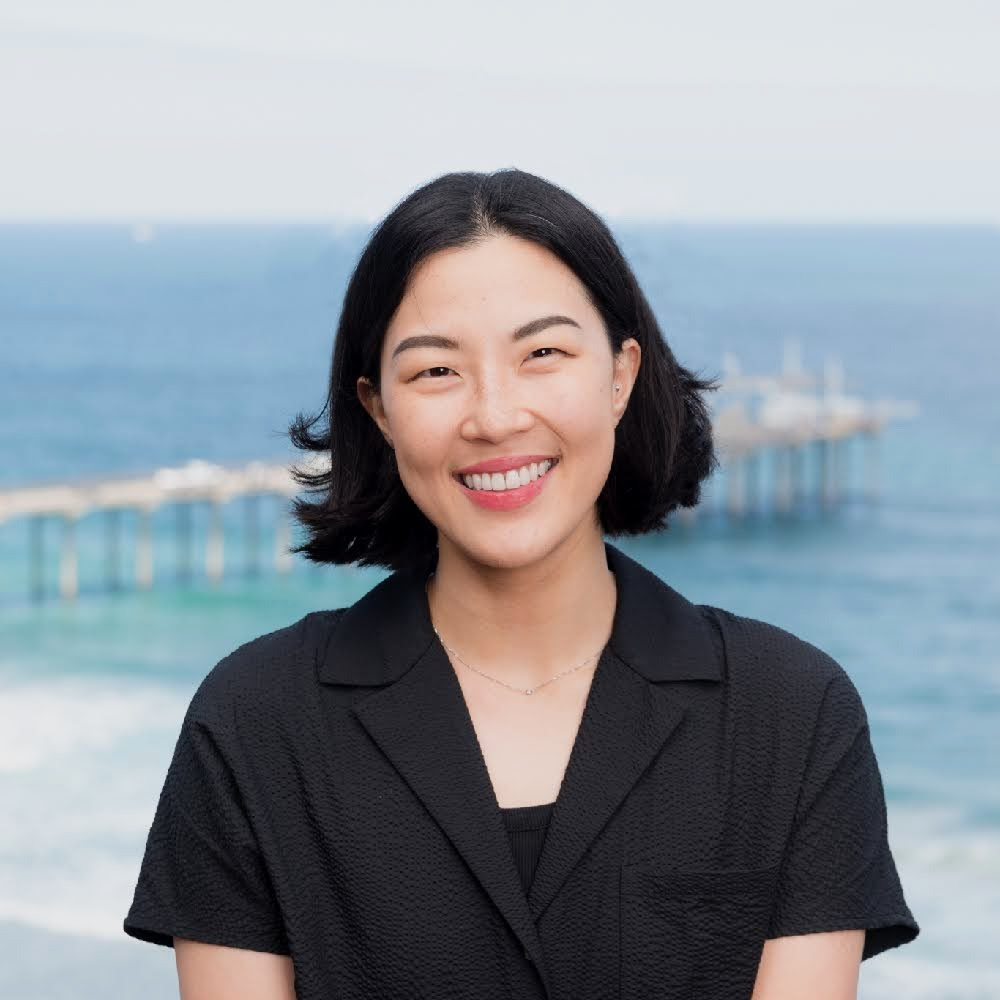
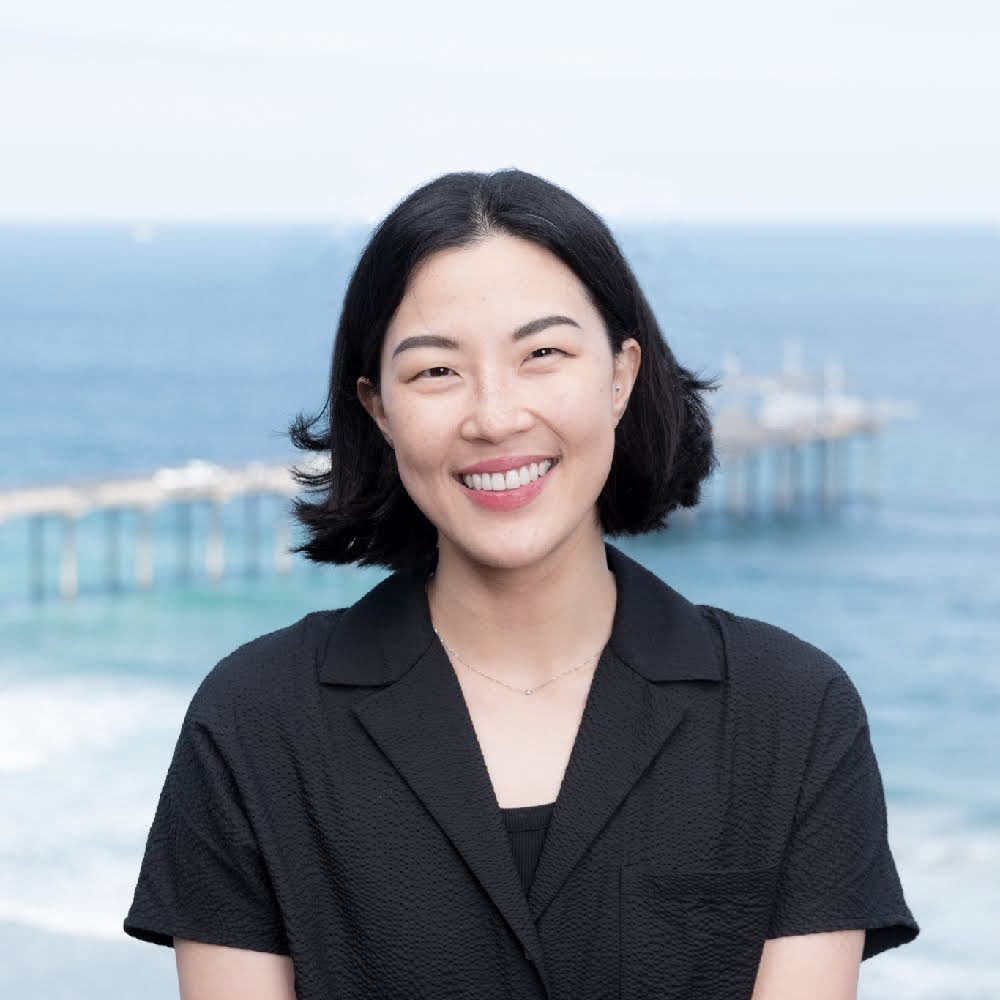
edit desc

diff --git a/index.html b/index.html
@@ -45,7 +45,7 @@
         <section id="research">
             <h2>Research Interests</h2>
             <p> The ocean holds a massive 93% of the world's carbon that cycles among the atmosphere, land, and sea. Because of its capacity to absorb vast amounts of human-emitted carbon from the atmosphere each year, the ocean has effectively buffered society’s impact on climate over the past century. However, the current and future extent of this capacity are not certain. As carbon continues to accumulate in our atmosphere, quantifying the marine response will be critical for monitoring and adapting to a changing climate. A remarkable ~<a href="https://agupubs.onlinelibrary.wiley.com/doi/abs/10.1002/2013gb004739">40% of global oceanic carbon uptake</a> is attributed to one region: the Southern Ocean. Comprising the waters encircling Antarctica, the Southern Ocean has been especially challenging to characterize by traditional shipboard sampling due to its remote location and harsh conditions. Excitingly, over the last twenty years, a growing international fleet of drifting oceanic robots called <a href="https://argo.ucsd.edu/">Argo floats</a> has revolutionized our ability to observe the ocean interior at a global scale. These remotely operating instruments (which UW helps to develop and deploy) have enabled impactful studies in previously inaccessible regions, including the Southern Ocean.
-
+            </br></br>
             My dissertation presents a new approach to mapping where and when carbon flows intensely between the Southern Ocean and the atmosphere; this framework combines the advantages of unprecedented observational coverage from Argo floats with those offered by modern data science techniques. Since all Argo floats measure ocean temperature and salinity but relatively few are equipped to measure carbon, we train a suite of machine learning algorithms to estimate surface carbon using more widely available measurements from floats as well as ships, satellites, and other environmental products. The application of our regression model, <a href="/projects/crusoe-overview.html">CRUSOE</a>, expands the number of relevant carbon data points (2014–2023) available in the Southern Ocean by 20-fold. Using this dataset, we then derive a novel ten-year record of ocean carbon maps, which represents a key missing piece for better quantification of Southern Ocean carbon uptake. Such improvements in the Southern Ocean will ultimately be essential for understanding the global carbon cycle.
             
             <p>
